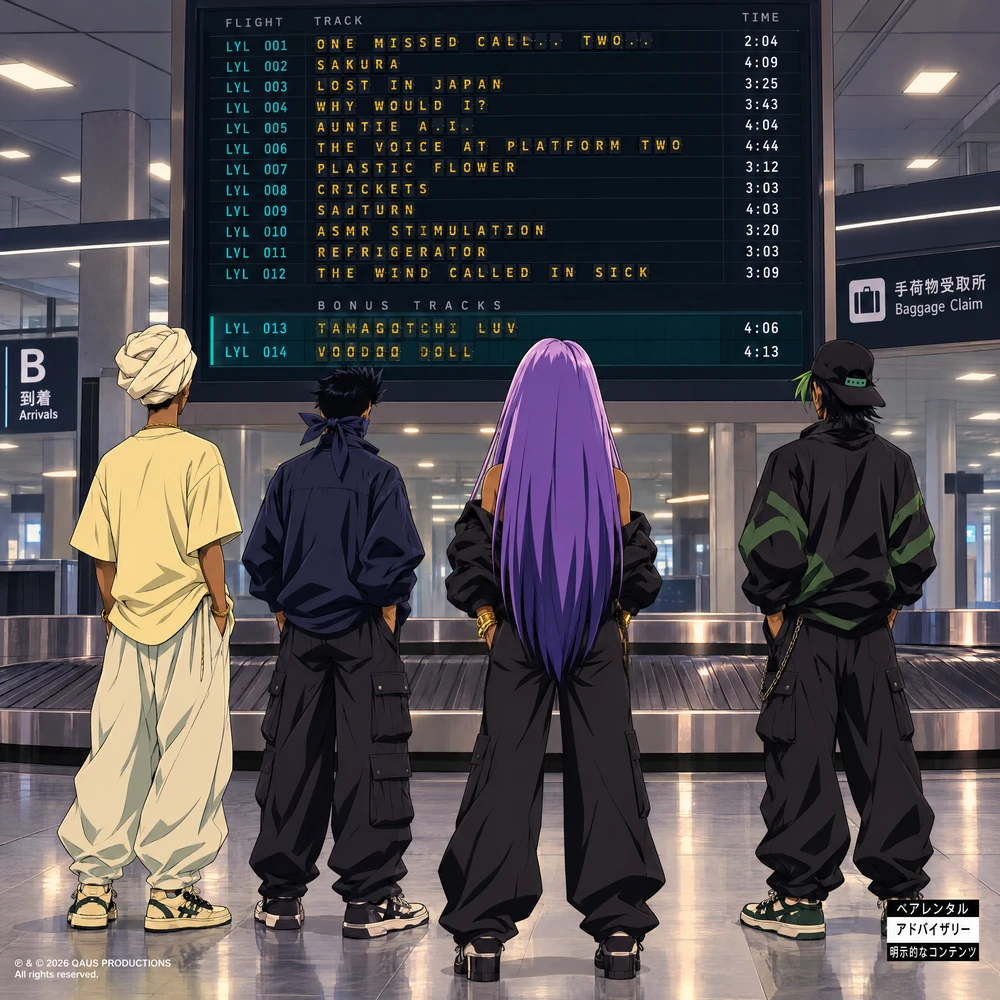
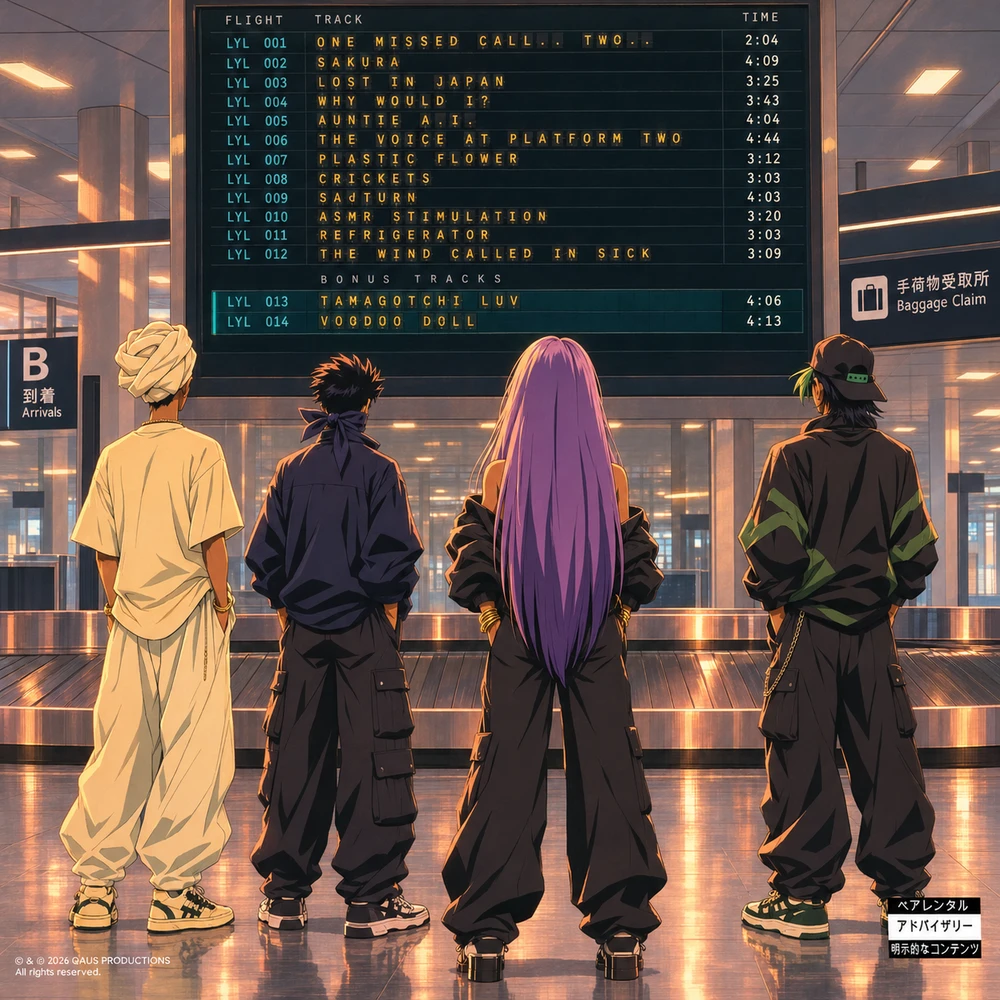
Album back cover: updated crew + tracklist board
Claude-Session: https://claude.ai/code/session_013w5yMdZKv437No8p47gv7E

diff --git a/okinawa/index.html b/okinawa/index.html
@@ -569,7 +569,7 @@ if("IntersectionObserver" in window)new IntersectionObserver(function(es){es.for
       <p>The title comes from the moment in Kill Bill: Vol. 1 when The Bride asks for a one-way ticket to Okinawa. For LAY-L, that ticket is a promise: the freedom to travel between sounds and never come back to the same one twice.</p>
       <p>The songs follow fleeting relationships, strange attachments and ordinary things that turn out to matter: a recorded voice, a plastic flower, a phone that never rings. The absurd is treated with complete sincerity.</p>
       <div class="facts"><div><b>14</b><span>Channels</span></div><div><b>2</b><span>Bonus flights</span></div><div><b>1</b><span>Way</span></div></div>
-    </div><figure class="acov" id="acov"><div class="acv"><img class="af" src="cover-sq.webp?v=4" alt="Okinawa… One Way.. front cover: the crew’s LAY-L AIR luggage by a baggage carousel, with Okinawa’s islands through the terminal window" loading="lazy" width="1000" height="1000"><img class="ab" src="cover-back.webp" alt="Back cover: Lilac, Asmar, Yamm and Lattam, seen from behind, read the arrivals board listing all 14 tracks" loading="lazy" width="1000" height="1000"></div><figcaption class="aflip" role="group" aria-label="Album cover side"><button type="button" aria-pressed="true" data-s="f">Front</button><button type="button" aria-pressed="false" data-s="b">Back</button></figcaption></figure></div>
+    </div><figure class="acov" id="acov"><div class="acv"><img class="af" src="cover-sq.webp?v=4" alt="Okinawa… One Way.. front cover: the crew’s LAY-L AIR luggage by a baggage carousel, with Okinawa’s islands through the terminal window" loading="lazy" width="1000" height="1000"><img class="ab" src="cover-back.webp?v=2" alt="Back cover: Yamm, Lattam, Lilac and Asmar, seen from behind at baggage claim, read the flight board listing 12 tracks plus 2 bonus tracks" loading="lazy" width="1000" height="1000"></div><figcaption class="aflip" role="group" aria-label="Album cover side"><button type="button" aria-pressed="true" data-s="f">Front</button><button type="button" aria-pressed="false" data-s="b">Back</button></figcaption></figure></div>
   </section>
   <section class="sec" id="passengers" aria-labelledby="pl-h"><div class="sec-k">Passenger list · 乗客名簿</div>
     <div class="plist"><div class="pl-main"><span class="pl-k">LAY-L AIR</span><h2 class="pl-h" id="pl-h">Join the passenger list</h2>
